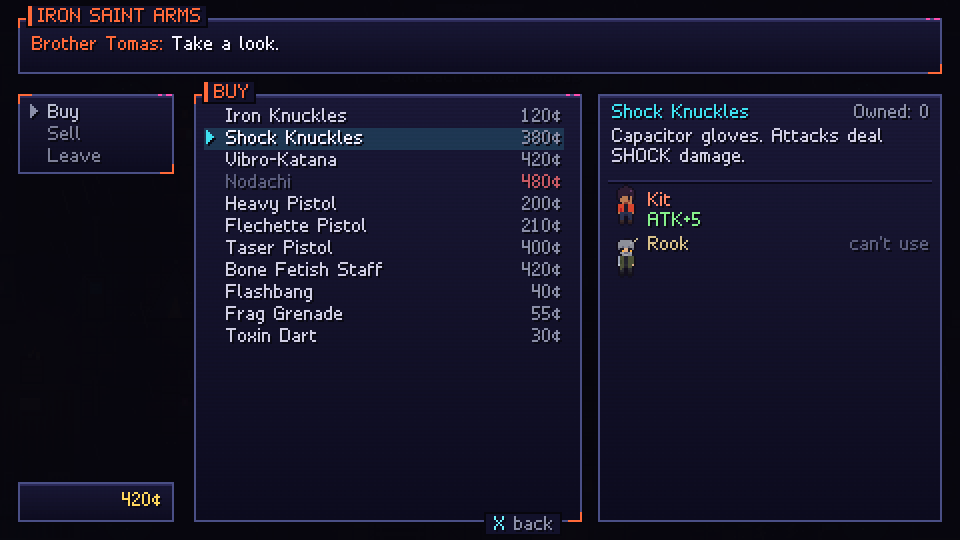
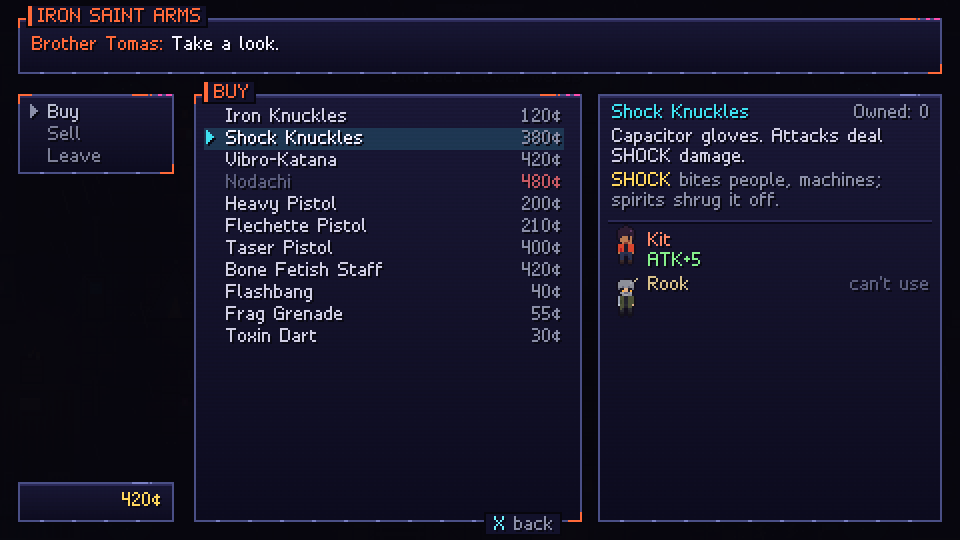
Round 12 (part 7): Mags' discount you can reach, a shop that explains elements, evidence named plainly
- Hedda's Cart on Lantern Row (Mags' sister) carries the Rustyard's stock once the camp owes the
  crew, at Mags' prices and her discount: the fork pays off without walking back out
- The shop says what an element bites and what shrugs it off (from the battle's own table)
- The driven run's results shot is 24c-ending-results-driven-test-run.png, marked NOT a real
  playthrough in its note
- A test shows the choice is real: the crew's own upgrades (3,960¢) are more than twice what even
  the luckiest tenth of runs has spare at the Warden (1,756¢)
- Glossary: Hedda

Changed region(s): [[0.625, 0.2963, 0.9688, 0.563], [0.875, 0.5037, 0.9688, 0.5333], [0.875, 0.4444, 0.9688, 0.4741]]

diff --git a/src/scenes/shop.ts b/src/scenes/shop.ts
@@ -1,4 +1,5 @@
 /** Shop: buy with quantity + party equip comparison, sell anything that isn't a key item. */
+import { FAMILY_WEAK } from '../data/enemies';
 import { buildChar } from '../art/chars';
 import { sfx } from '../audio/sfx';
 import { autoClose } from '../game/debug';
@@ -16,6 +17,10 @@ import { drawDivider, drawWindow, keyLegend, UI, OVERLAY_DIM } from '../ui/draw'
 import { ListMenu } from '../ui/list';
 
 type Mode = 'root' | 'buy' | 'sell' | 'qty';
+
+/** Enemy families in the order the shop lists them, and how it names them. */
+const FAMILY_ORDER = ['human', 'machine', 'beast', 'spirit', 'ghoul'] as const;
+const FAMILY_PLURAL: Record<(typeof FAMILY_ORDER)[number], string> = { human: 'people', machine: 'machines', beast: 'beasts', spirit: 'spirits', ghoul: 'ghouls' };
 
 export class ShopScene extends Scene<void> {
   override opaque = false;
@@ -197,6 +202,13 @@ export class ShopScene extends Scene<void> {
     drawText(ctx, `Owned: ${state.inventory[it.id] ?? 0}`, dx + dw - 8, 52, { align: 'right', color: UI.dim });
     const lines = drawParagraph(ctx, it.desc, dx + 8, 64, dw - 16, { color: '#d0cee4', lineH: 10 });
     let y = 70 + lines * 10;
+    if (it.element && it.element !== 'phys') {
+      // What the element bites and what shrugs it off, from the battle's own weakness table.
+      const bites = FAMILY_ORDER.filter((f) => (FAMILY_WEAK[f][it.element!] ?? 1) > 1).map((f) => FAMILY_PLURAL[f]);
+      const shrugs = FAMILY_ORDER.filter((f) => (FAMILY_WEAK[f][it.element!] ?? 1) < 1).map((f) => FAMILY_PLURAL[f]);
+      const text = `{y}${it.element.toUpperCase()}{/}${bites.length ? ` bites ${bites.join(', ')}` : ''}${shrugs.length ? `; ${shrugs.join(', ')} shrug it off` : ''}.`;
+      y += 10 * drawParagraph(ctx, text, dx + 8, y - 4, dw - 16, { color: UI.dim, lineH: 10 });
+    }
     const short = this.price(it.id) - state.cred;
     if (this.mode === 'buy' && short > 0) {
       drawText(ctx, `Need ${short.toLocaleString('en-US')}¢ more`, dx + 8, y - 4, { color: UI.red });

diff --git a/src/data/maps/lantern_row.ts b/src/data/maps/lantern_row.ts
@@ -206,8 +206,17 @@ export const lanternRow: MapDef = {
       talk: ['Rat-on-a-stick! Not glowrat, no no. Regular rat. Organic! Very fresh!'],
     },
     {
-      id: 'junk', x: 32, y: 17, dir: 'down', look: LOOKS.mags, name: 'Junk Dealer', fixedDir: true,
-      talk: ['Decks, chips, parts! You want a coprocessor? Ha! For those, try Old Mags out in the Rustyard. She gets the good salvage.'],
+      // Mags' sister Hedda: once the Rustyard's in your debt, her cart carries Mags' stock in town
+      // (at Mags' prices, discount included), so a crew that never walks back out there can shop it.
+      id: 'junk', x: 32, y: 17, dir: 'down', look: LOOKS.mags, name: 'Hedda’s Cart', fixedDir: true,
+      talk: async (s) => {
+        if (!s.flag('coprocessor_given')) {
+          await s.say('Hedda', 'Decks, chips, parts! You want a coprocessor? Ha! For those, try my sister, Old Mags, out in the Rustyard. She gets the good salvage.');
+          return;
+        }
+        const c = await s.ask('Hedda', s.flag('camp_kept') ? 'Mags sent word: you left the camp its collection. Her stock, her prices, a fifth off. Family rates.' : 'Mags sent word you ran Knuckles off. I carry her stock in town now. Take a look.', ['Shop', 'Leave'], { cancel: 1 });
+        if (c === 0) await s.shop('rustyard');
+      },
     },
     {
       id: 'fetish', x: 35, y: 25, dir: 'down', name: 'Charm Seller', fixedDir: true,

diff --git a/tests/economy.test.ts b/tests/economy.test.ts
@@ -110,6 +110,16 @@ describe('economy', () => {
     expect(saving).toBeLessThan(150 * 2);
   });
 
+  it('nobody can buy everything: the crew’s own upgrades cost more than even a lucky run has spare', () => {
+    // Beyond the gear the route needs, each member has their own headpiece and mod on sale, and
+    // Requisition has the Neural Lace. A run in the luckiest tenth still has to choose.
+    const wish = ['sparring_band', 'mempo', 'trode_net', 'feather_circlet', 'ki_beads', 'ronin_guard', 'coolant_rig', 'crow_torc', 'km_lace'];
+    const cost = wish.reduce((n, id) => n + ITEMS[id]!.price, 0);
+    const p90 = pct(mc.get('CP6 WARDEN')!, 0.9);
+    console.log(`wish list ${cost}¢ vs luckiest-tenth spare at the Warden ${Math.round(p90)}¢`);
+    expect(cost).toBeGreaterThan(p90 * 1.5);
+  });
+
   it('the whole chapter takes a sensible number of fights', () => {
     const last = report[report.length - 1]!;
     expect(last.battles).toBeGreaterThan(18);

diff --git a/e2e/playthrough.spec.ts b/e2e/playthrough.spec.ts
@@ -20,7 +20,7 @@ test('Chapter 1 can be played start to finish', async ({ page }) => {
   await playChapter1(page, () => sj(page, 'Object.assign(sj.debug, { autoDialog: false, playtest: true })'));
   await waitFor(page, "sj.top() === 'EndingScene'", 'results screen', 120_000);
   await page.waitForTimeout(2600);
-  await page.locator('#screen').screenshot({ path: 'docs/screenshots/24c-ending-results-playthrough.png' });
+  await page.locator('#screen').screenshot({ path: 'docs/screenshots/24c-ending-results-driven-test-run.png' });
   await waitFor(page, "sj.top() === 'TitleScene'", 'back to title', 60_000);
   expect(errors).toEqual([]);
 });

diff --git a/docs/GLOSSARY.md b/docs/GLOSSARY.md
@@ -163,6 +163,7 @@ A Kessler-Mori research annex under the Sinkline. Officially decommissioned. Off
 | **Dutch** | The fixer who runs the Drowned Saint. Big, bearded, a wide hat with a gold band. Knew the Glass Wolves took this job before the crew did. The chapter ends on "we ask Dutch what he knew." |
 | **Mr. Pale** | The client. White suit, red visor, brass watch, exact hours. Works for Kessler-Mori. Clerk's voice: "Contractors are paid on completion. You have completed." |
 | **Old Mags** ("Auntie Mags" to the camp kids) | Runs the Rustyard scav camp and its salvage trade. Walks with a cane. Has the Stingray coprocessor Hex needs. |
+| **Hedda** | Mags' sister. Her cart on Lantern Row carries Mags' stock in town once the Rustyard owes the crew (at Mags' prices, discount included). |
 | **"Knuckles" Tran** | Rustfang enforcer at the tire depot; both hands are chrome. The chapter's first mini-boss. |
 | **Doc Yun** | Runs the clinic. Getting back the stolen med-case is a side job. (The game never gives Doc Yun's pronouns.) |
 | **Mama Ono** | Runs the noodle shop. Her lost orange cat, **Noodle** (one ear), is a side job. |
